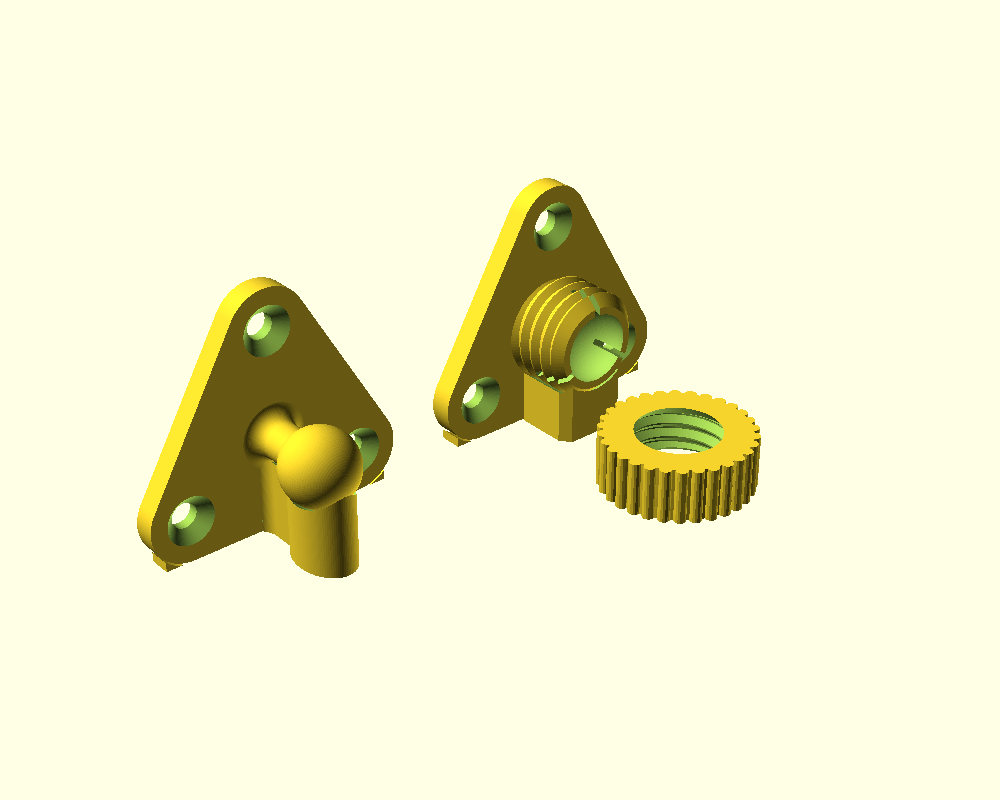
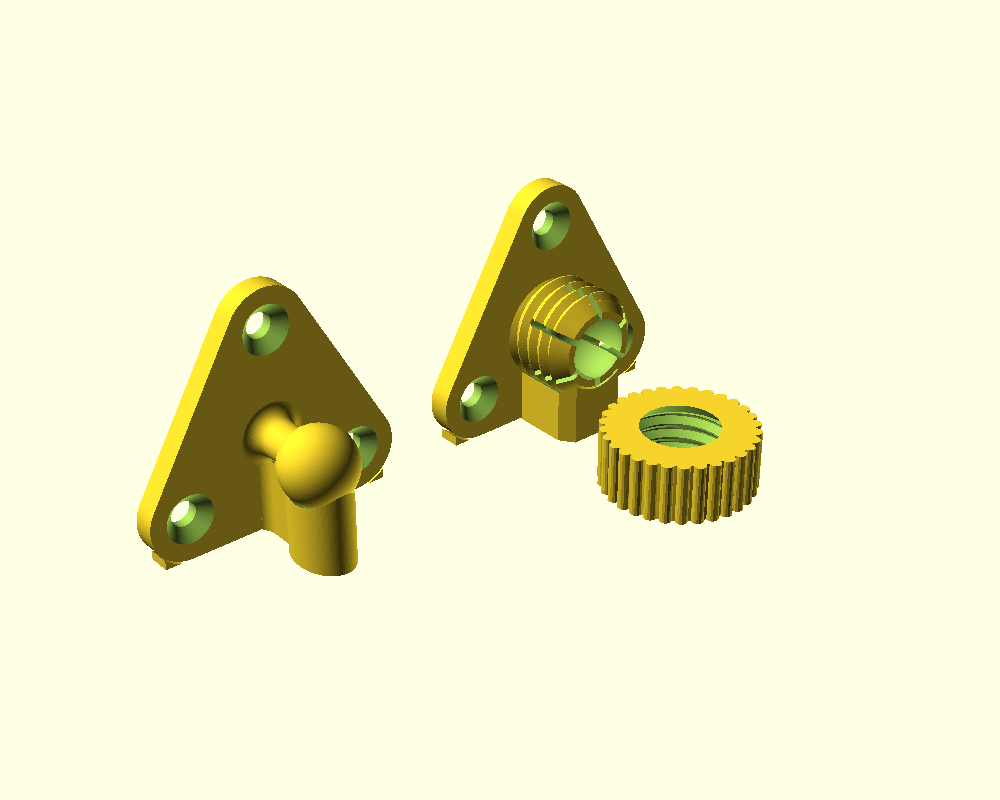
Ball head V3: 6 deeper slits so the nut can press the fingers onto the ball
The tested print with 3 slits reaching 0.5 of the ball's radius had fingers
too stiff to bend: the nut got tight but the ball still turned. Now 6 slits
reach 0.8 of the radius below the centre, as in the inspiration; every
other slit still points at a corner. Also keeps cup_angle 35 from the test.

diff --git a/projects/ball_and_socket_joint_ball_head/readme.md b/projects/ball_and_socket_joint_ball_head/readme.md
@@ -29,9 +29,12 @@ prints like a horizontal hole. Turn the slicer's own supports off.
 
 ![the parts on their side, cut through the axis](print_section_v3.png)
 
-The cup has 3 slits (`slit_count`), one pointing at each corner of the
-plate. Laid down, one is at the top and the other two point at the lower
-corners, 30 degrees below level.
+The cup has 6 slits (`slit_count`) that reach 0.8 of the ball's radius
+below its centre (`slit_depth`), as in the inspiration. Every other slit
+points at a corner of the plate. Laid down, one is at the top and one at
+the bottom, and the other four are 30 degrees from level. A print with 3
+slits reaching 0.5 of the radius had fingers too stiff to bend: the nut got
+tight, but the ball still turned.
 
 Values that do not fit are changed as in V2. The hole circle grows until the
 screw heads clear the cup, the corners grow to fit the screw heads and to
